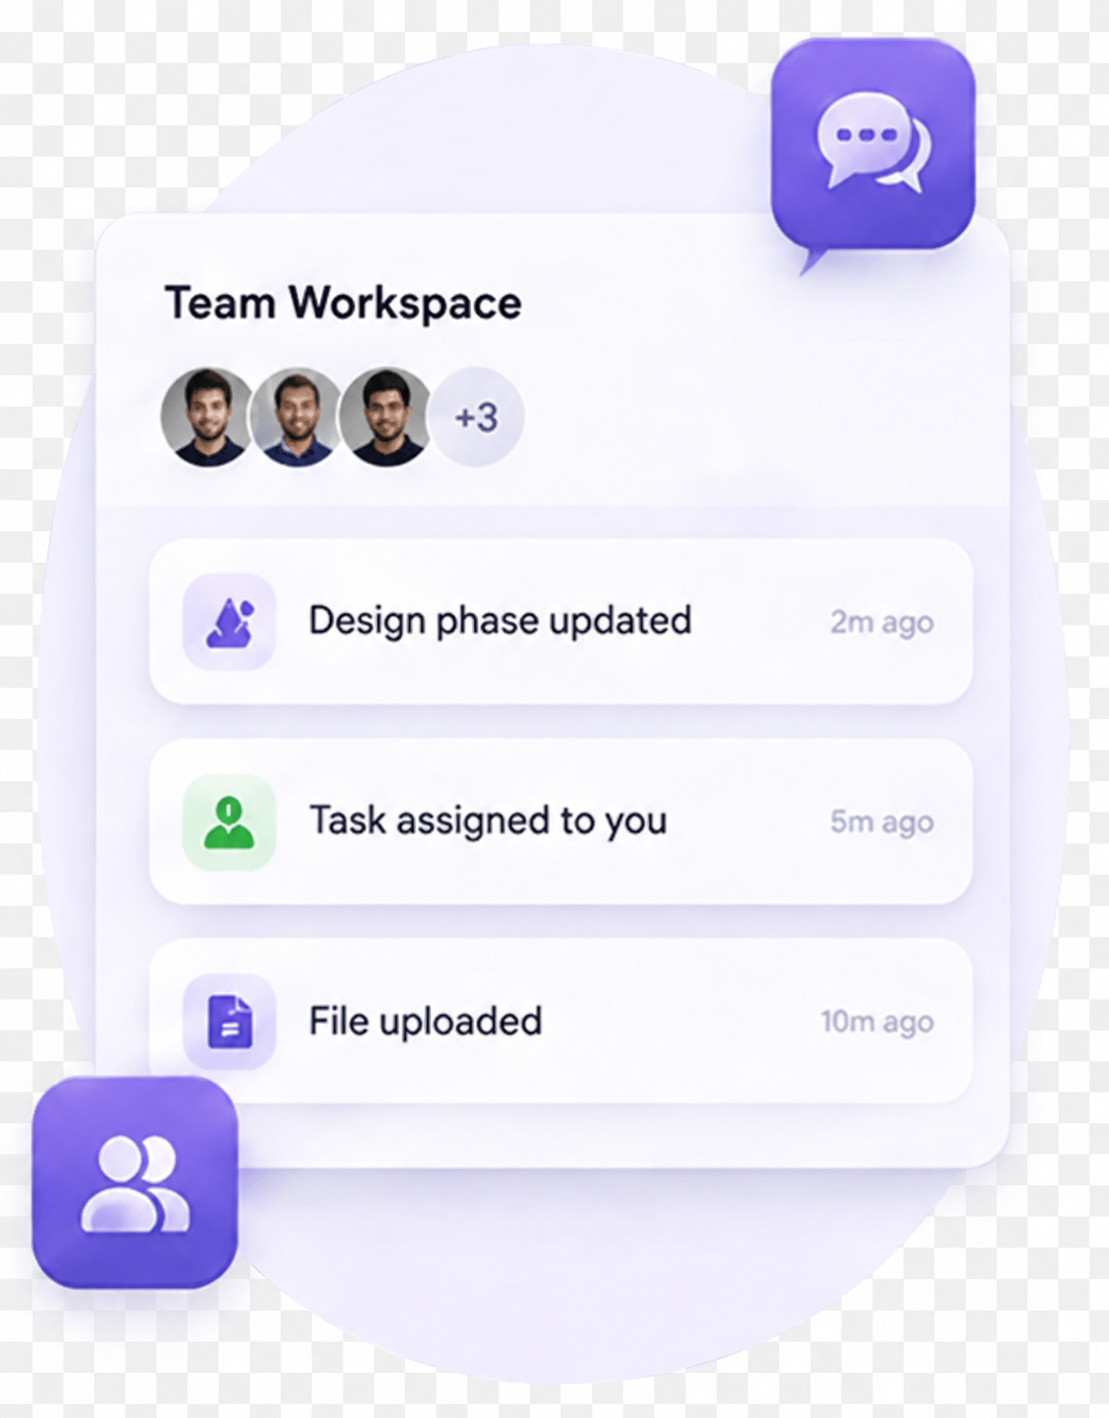
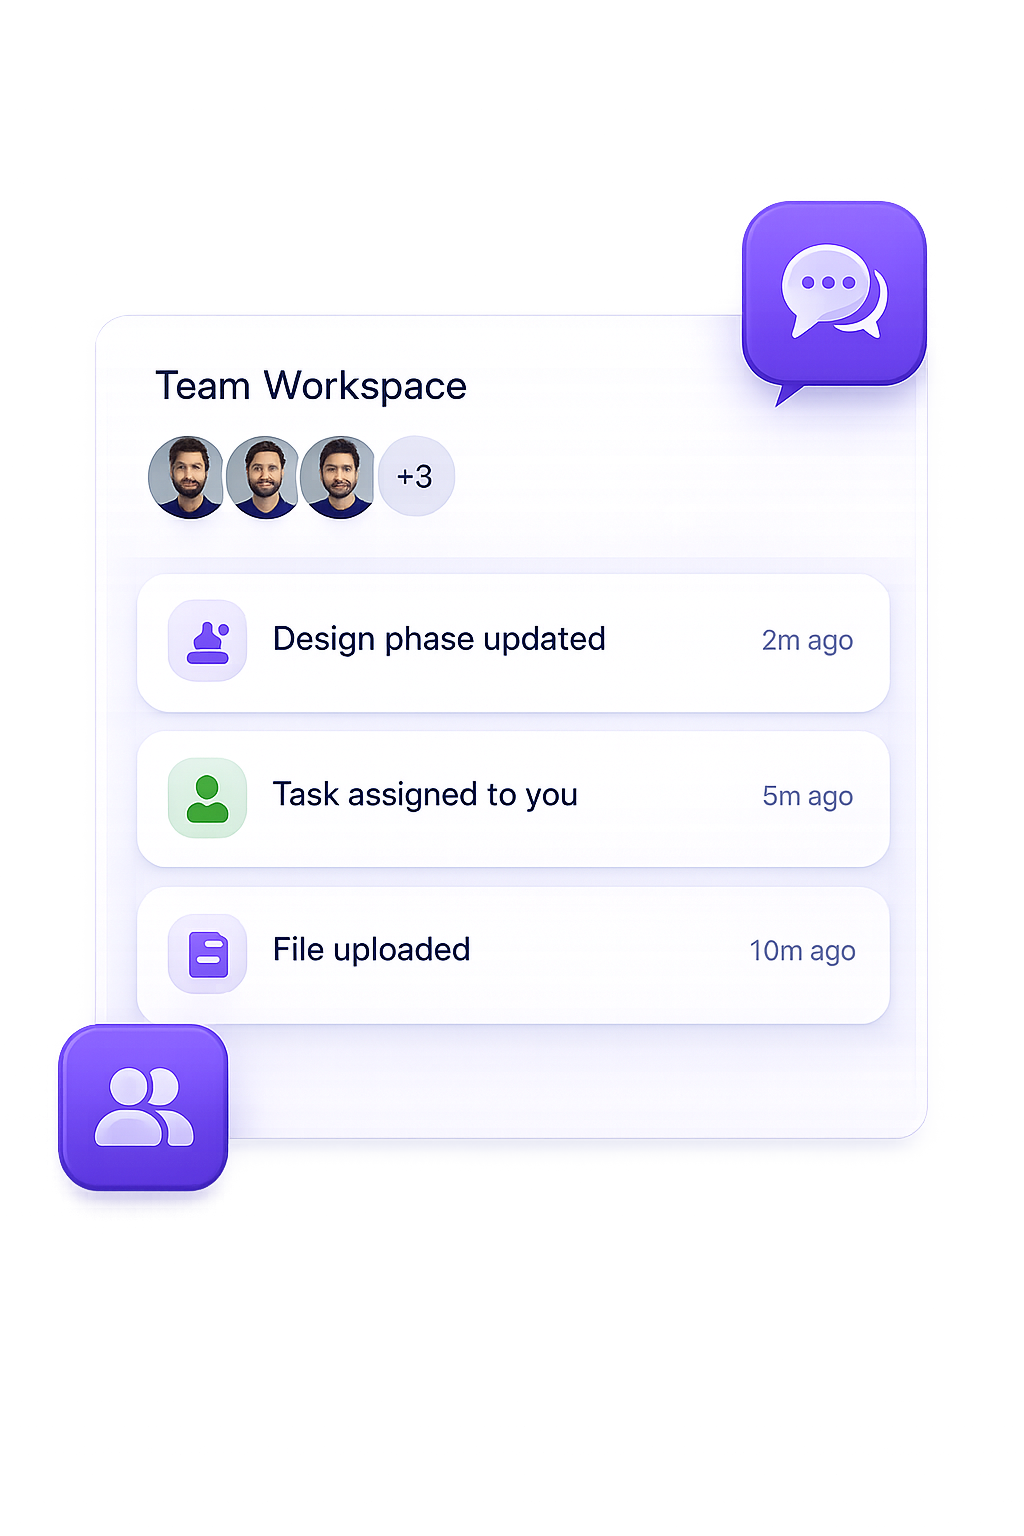
fixes 1.2.2

diff --git a/lib/features/onboarding/widgets/intro_onboarding_page.dart b/lib/features/onboarding/widgets/intro_onboarding_page.dart
@@ -1,0 +1,86 @@
+import 'package:flutter/material.dart';
+
+import '../../../core/theme/planora_theme.dart';
+import '../models/onboarding_page_data.dart';
+import '../utils/onboarding_responsive_metrics.dart';
+import 'onboarding_image.dart';
+import 'onboarding_small_widgets.dart';
+
+class IntroOnboardingPage extends StatelessWidget {
+  final OnboardingPageData data;
+  final OnboardingResponsiveMetrics metrics;
+
+  const IntroOnboardingPage({
+    super.key,
+    required this.data,
+    required this.metrics,
+  });
+
+  @override
+  Widget build(BuildContext context) {
+    return SingleChildScrollView(
+      physics: const BouncingScrollPhysics(),
+      child: Column(
+        children: [
+          SizedBox(height: metrics.introTopGap),
+
+          Row(
+            mainAxisAlignment: MainAxisAlignment.center,
+            mainAxisSize: MainAxisSize.min,
+            crossAxisAlignment: CrossAxisAlignment.center,
+            children: [
+              Image.asset(
+                'assets/images/planora_logo.png',
+                width: metrics.logoSize,
+                height: metrics.logoSize,
+              ),
+              SizedBox(width: metrics.logoToTitleGap),
+              Text(
+                'Planora',
+                style: Theme.of(context).textTheme.headlineLarge?.copyWith(
+                  fontSize: metrics.brandTitleSize,
+                  fontWeight: FontWeight.w800,
+                  color: PlanoraTheme.textPrimary,
+                ),
+              ),
+            ],
+          ),
+
+          SizedBox(height: metrics.titleToPillGap),
+
+          const AiPill(),
+
+          SizedBox(height: metrics.pillToHeroGap),
+
+          HeroTitle(
+            title: data.title,
+            highlightedText: data.highlightedText,
+            fontSize: metrics.heroTitleSize,
+          ),
+
+          SizedBox(height: metrics.heroToDescriptionGap),
+
+          Text(
+            data.description,
+            textAlign: TextAlign.center,
+            style: Theme.of(context).textTheme.bodyMedium?.copyWith(
+              fontSize: metrics.descriptionSize,
+              height: 1.55,
+              color: PlanoraTheme.textSecondary,
+            ),
+          ),
+
+          SizedBox(height: metrics.descriptionToIntroImageGap),
+
+          OnboardingImage(
+            assetPath: data.imageAsset,
+            height: metrics.introImageHeight,
+            width: metrics.introImageWidth,
+          ),
+
+          SizedBox(height: metrics.pageBottomPadding),
+        ],
+      ),
+    );
+  }
+}

diff --git a/lib/features/onboarding/onboarding_screen.dart b/lib/features/onboarding/onboarding_screen.dart
@@ -141,13 +141,13 @@ class _OnboardingScreenState extends State<OnboardingScreen> {
                               final page = onboardingPages[index];
 
                               if (page.type == OnboardingPageType.intro) {
-                                return _IntroOnboardingPage(
+                                return IntroOnboardingPage(
                                   data: page,
                                   metrics: metrics,
                                 );
                               }
 
-                              return _ImageOnboardingPage(
+                              return ImageOnboardingPage(
                                 data: page,
                                 metrics: metrics,
                                 showSkip:

diff --git a/lib/features/onboarding/widgets/onboarding_small_widgets.dart b/lib/features/onboarding/widgets/onboarding_small_widgets.dart
@@ -2,12 +2,12 @@ import 'package:flutter/material.dart';
 
 import '../../../core/theme/planora_theme.dart';
 
-class Herotitle extends StatelessWidget {
+class HeroTitle extends StatelessWidget {
   final String title;
   final String highlightedText;
   final double fontSize;
 
-  const Herotitle({
+  const HeroTitle({
     super.key,
     required this.title,
     required this.highlightedText,